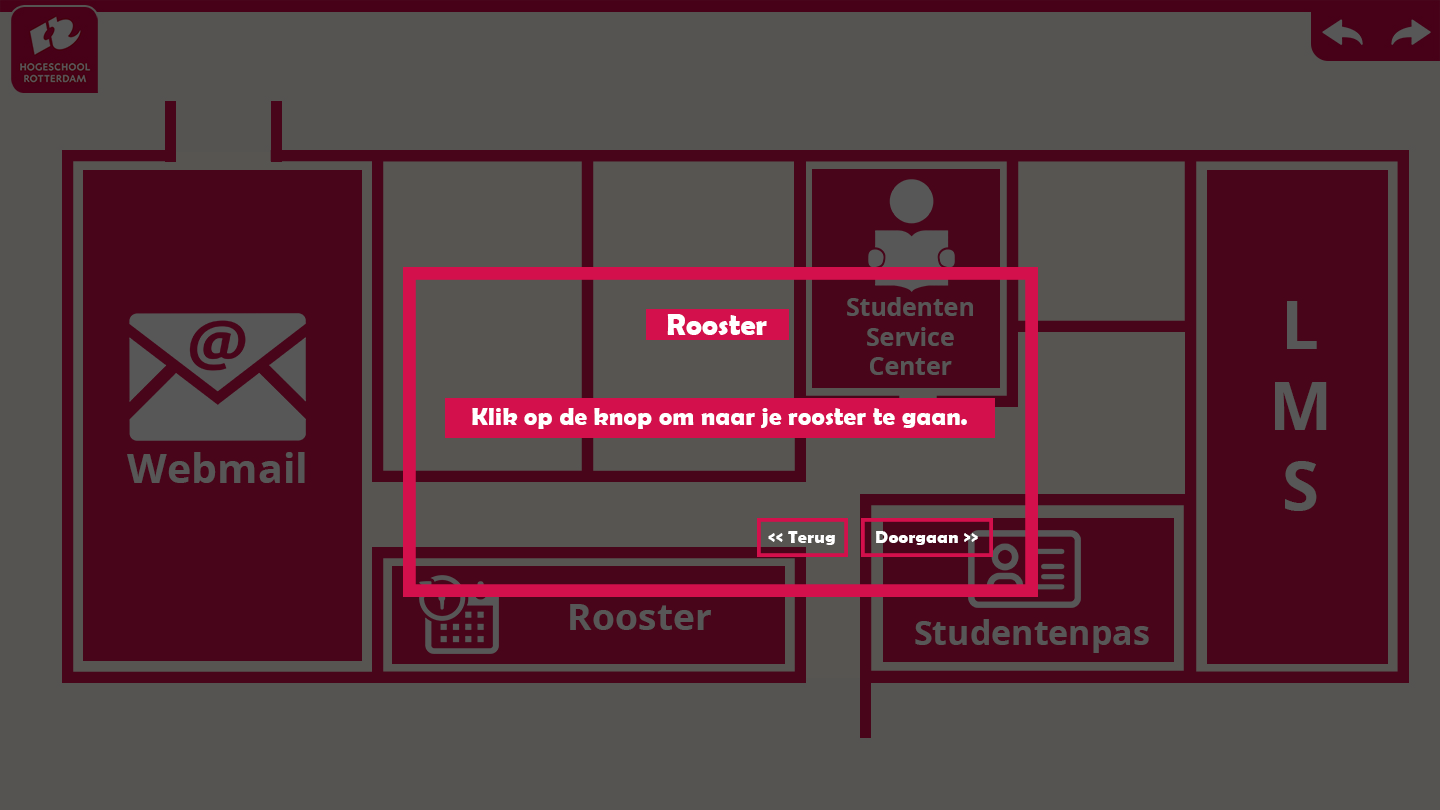
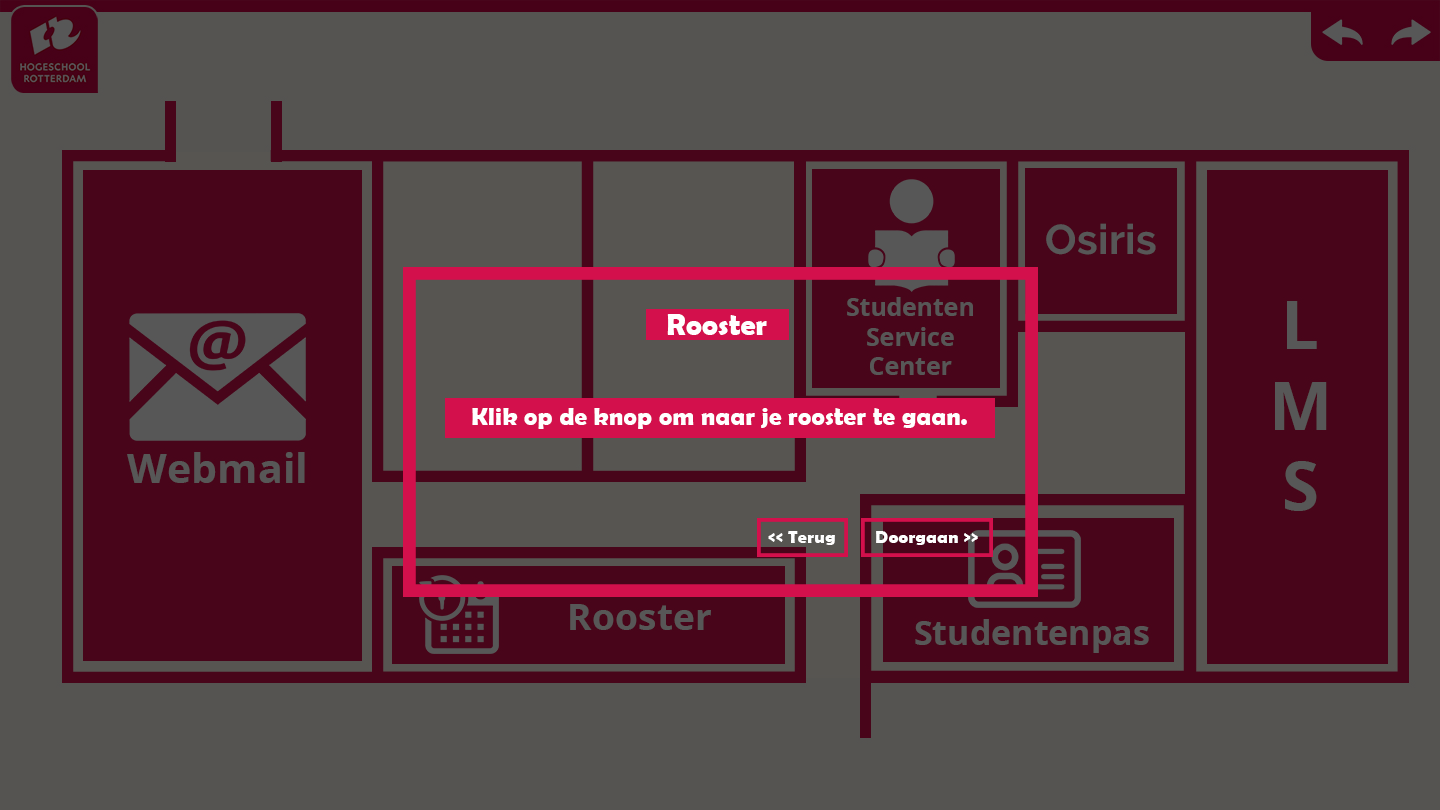
osiris
osiris

Changed region(s): [[0.6875, 0.1852, 0.8438, 0.4012]]

diff --git a/docs/js/main.js b/docs/js/main.js
@@ -239,7 +239,7 @@ var Act1 = (function () {
             button_next.remove();
             button_previous.remove();
             background.style.zIndex = "-1";
-            window.open('https://google.nl', '_blank');
+            window.open('https://hint.hr.nl/nl/HR/Studie/roosters-en-cijfers/Lesrooster/', '_blank');
         });
         button_previous.style.width = "6.2vw";
         button_previous.style.height = "5vh";
@@ -279,7 +279,7 @@ var Act1 = (function () {
         myloc.useMap = "/docs/assets/studentenpas.png";
         var img = document.createElement('img');
         img.setAttribute('src', myloc.useMap);
-        img.setAttribute('style', "height:25vh;width:25vw;transform:translate(28.3vw, 26.5vh);cursor:pointer;");
+        img.setAttribute('style', "height:25vh;width:24vw;transform:translate(28.7vw, 26.5vh);cursor:pointer;");
         game.appendChild(img);
         img.addEventListener("click", function () {
             button.style.display = "none";
@@ -1555,7 +1555,7 @@ var Game = (function () {
         game.appendChild(button4);
         button4.style.width = "10vw";
         button4.style.height = "10vh";
-        button4.style.transform = "translate(50vw, 50vh)";
+        button4.style.transform = "translate(80vw, 50vh)";
         button4.innerHTML = "luuk";
         button4.onclick = this.buttonPress4;
     }
@@ -1936,4 +1936,54 @@ var StartScreem = (function () {
     return StartScreem;
 }());
 window.addEventListener('load', function () { return new StartScreem(); });
+var Timer = (function () {
+    function Timer() {
+    }
+    Timer.prototype.startTimer = function () {
+        if (!localStorage.getItem('start')) {
+            localStorage.setItem('start', new Date().getTime().toString());
+        }
+        if (!localStorage.getItem('pause')) {
+            localStorage.setItem('pause', '0');
+        }
+        if (!localStorage.getItem('bonus')) {
+            localStorage.setItem('bonus', '0');
+        }
+    };
+    Timer.prototype.startPause = function () {
+        this.pauseStart = new Date().getTime();
+    };
+    Timer.prototype.endPause = function () {
+        this.pauseEnd = new Date().getTime();
+        var currentPause = parseInt(localStorage.getItem('pause'));
+        var thisPause = this.pauseEnd - this.pauseStart;
+        var newPause = thisPause + currentPause;
+        localStorage.setItem('pause', newPause.toString());
+    };
+    Timer.prototype.addBonus = function (point) {
+        var currentBonus = parseInt(localStorage.getItem('bonus'));
+        var newBonus = currentBonus + point;
+        localStorage.setItem('bonus', newBonus);
+    };
+    Timer.prototype.endTimer = function () {
+        if (!localStorage.getItem('end')) {
+            localStorage.setItem('end', new Date().getTime().toString());
+        }
+    };
+    Timer.prototype.score = function () {
+        var start = parseInt(localStorage.getItem('start'));
+        var end = parseInt(localStorage.getItem('end'));
+        var pause = parseInt(localStorage.getItem('pause'));
+        var bonus = parseInt(localStorage.getItem('bonus'));
+        var score = Math.floor((end - start - pause) / 1000) - bonus;
+        console.log(score);
+    };
+    Timer.prototype.resetTimer = function () {
+        localStorage.removeItem('start');
+        localStorage.removeItem('end');
+        localStorage.removeItem('pause');
+    };
+    return Timer;
+}());
+window.addEventListener('load', function () { return new Timer(); });
 //# sourceMappingURL=main.js.map

diff --git a/dev/act1.ts b/dev/act1.ts
@@ -286,7 +286,7 @@ class Act1 {
             button_next.remove()
             button_previous.remove()
             background.style.zIndex = `-1`
-            window.open('https://google.nl', '_blank');
+            window.open('https://hint.hr.nl/nl/HR/Studie/roosters-en-cijfers/Lesrooster/', '_blank');
         })
 
         button_previous.style.width = `6.2vw`
@@ -334,7 +334,7 @@ class Act1 {
         myloc.useMap = "/docs/assets/studentenpas.png";  
         var img = document.createElement('img')  
         img.setAttribute('src', myloc.useMap);  
-        img.setAttribute('style', "height:25vh;width:25vw;transform:translate(28.3vw, 26.5vh);cursor:pointer;");  
+        img.setAttribute('style', "height:25vh;width:24vw;transform:translate(28.7vw, 26.5vh);cursor:pointer;");  
         game.appendChild(img);
 
         img.addEventListener("click" , function(){
